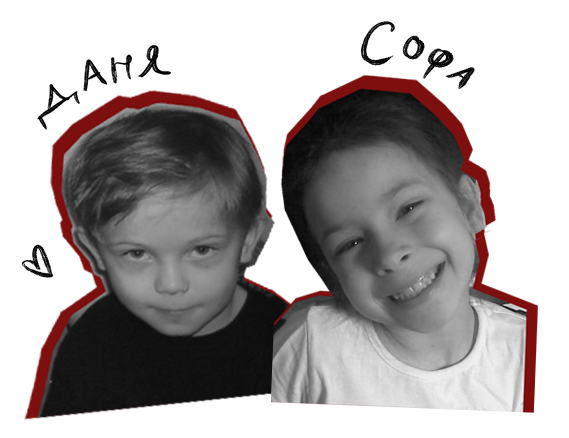
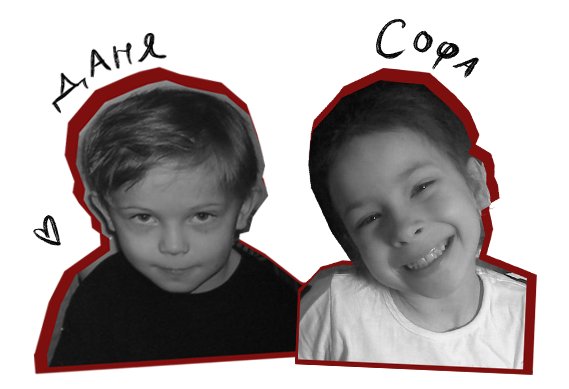
fixed hero image position and look

Changed region(s): [[0.0299, 0.0308, 0.9561, 0.9871]]

diff --git a/src/components/Hero.jsx b/src/components/Hero.jsx
@@ -4,7 +4,7 @@ import ourWedding from "../assets/ourWedding.png";
 import dateImg from "../assets/date.png";
 import danyaSofaHome from "../assets/DanyaSofaHero.png";
 
-/* helper for soft reveal on mount/in view */
+/* helper for soft reveal on view */
 function RevealOnce({ children, delay = 0, y = 12, className = "" }) {
   const ref = useRef(null);
   const inView = useInView(ref, { once: true, amount: 0.4 });
@@ -50,16 +50,15 @@ export default function Hero() {
         </RevealOnce>
       </div>
 
-      {/* Photo (kept narrow on desktop as you asked) */}
+      {/* Photo */}
       <div className="flex justify-center">
         <RevealOnce delay={0.25} y={10}>
           <motion.img
             src={danyaSofaHome}
             alt="Даня и Софа детство"
-            className="max-w-full h-auto w-[92%] md:w-[200px] lg:w-[400px] object-contain"
+            className="max-w-full h-auto md:w-[200px] lg:w-[400px] object-contain"
             whileInView={{ opacity: 1, y: 0 }}
             viewport={{ once: true }}
-            /* delicate perpetual float */
             animate={{ y: [0, -3, 0] }}
             transition={{ duration: 5.5, repeat: Infinity, repeatType: "mirror", ease: "easeInOut" }}
           />
